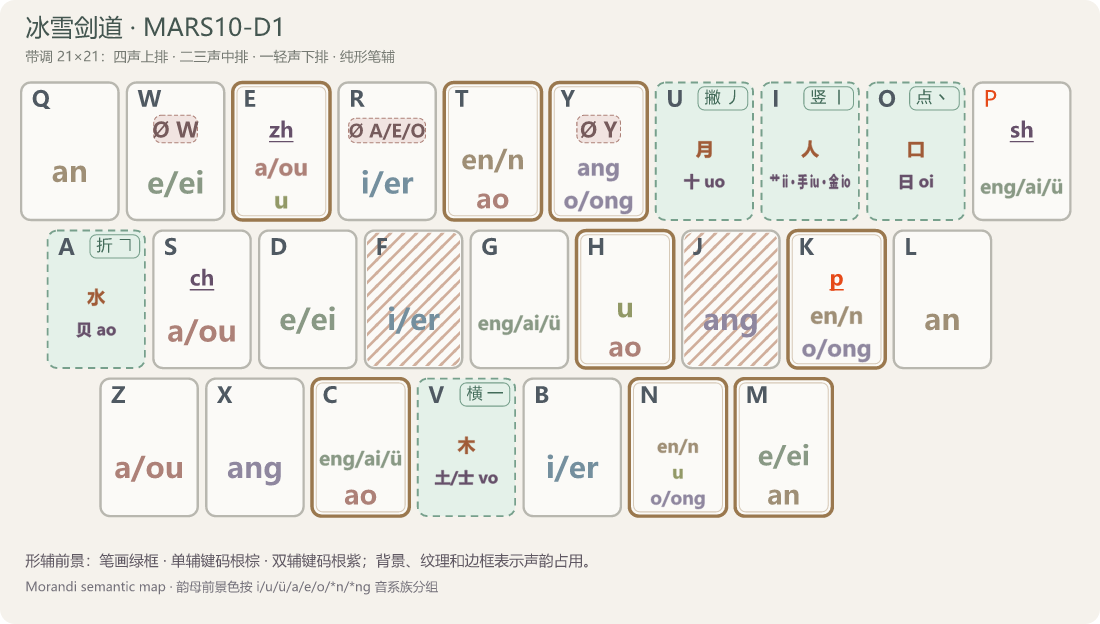
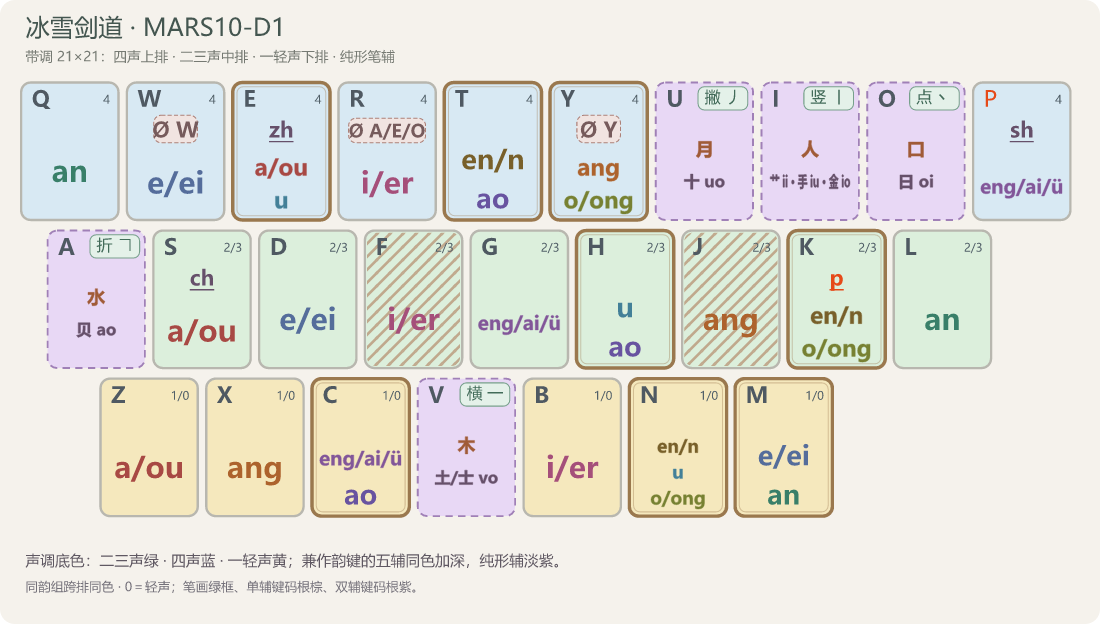
fix(keymaps): render embedded tone regions for Zhudao and Jiandao

diff --git a/scripts/generate-keymaps.ts b/scripts/generate-keymaps.ts
@@ -50,6 +50,8 @@ type Diagram = {
 	subtitle: string;
 	mapping?: Mapping;
 	finalLabels?: Record<string, string[]>;
+	finalColors?: Record<string, string>;
+	keyTones?: Record<string, string>;
 	auxiliary?: Record<string, KeyNote>;
 };
 
@@ -65,6 +67,44 @@ const keyWidth = 92;
 const keyHeight = 130;
 const keyStep = 100;
 const rowY = [78, 218, 358];
+
+// 与 benchmark 的带调主码键位图一致；五辅兼作韵键时保持色相并加深。
+const embeddedToneFills: Record<string, string> = {
+	4: "#d8e9f3",
+	23: "#dcefdc",
+	"01": "#f5e8bd",
+};
+const embeddedRhymeColors = [
+	"#a84944",
+	"#78602a",
+	"#556d9b",
+	"#825699",
+	"#397f69",
+	"#ad632d",
+	"#438098",
+	"#a54f7a",
+	"#778132",
+	"#6853a0",
+];
+
+function embeddedToneFill(tones: string, sharedShape: boolean) {
+	const region = Object.keys(embeddedToneFills).find((group) =>
+		[...tones].every((tone) => group.includes(tone)),
+	);
+	if (!region) throw new Error(`未知的带调键位色区：${tones}`);
+	const fill = embeddedToneFills[region];
+	return sharedShape
+		? `#${fill
+				.slice(1)
+				.match(/../gu)!
+				.map((channel) =>
+					Math.round(Number.parseInt(channel, 16) * 0.88)
+						.toString(16)
+						.padStart(2, "0"),
+				)
+				.join("")}`
+		: fill;
+}
 
 const semanticPatterns = `<defs><pattern id="nf4-both" width="12" height="12" patternUnits="userSpaceOnUse"><rect width="12" height="12" fill="#fbfaf7"/></pattern><pattern id="nf4-ionly" width="9" height="9" patternUnits="userSpaceOnUse"><rect width="9" height="9" fill="#e3eef4"/><path d="M2 0V9M7 0V9" stroke="#7399ad" stroke-opacity=".18"/></pattern><pattern id="nf4-ronly" width="10" height="10" patternUnits="userSpaceOnUse"><rect width="10" height="10" fill="#f6ebd6"/><circle cx="3" cy="3" r="1.15" fill="#b39253" fill-opacity=".3"/></pattern><pattern id="nf4-none" width="10" height="10" patternUnits="userSpaceOnUse"><rect width="10" height="10" fill="#eeece8"/><path d="M0 10L10 0" stroke="#aaa6a4" stroke-opacity=".14"/></pattern><pattern id="nf4-multi" width="9" height="9" patternUnits="userSpaceOnUse"><rect width="9" height="9" fill="#f8efe2"/><path d="M-2 2L2-2M0 9L9 0M7 11L11 7" stroke="#9a784e" stroke-width="1.6" stroke-opacity=".27"/></pattern><pattern id="nf4-anchor" width="12" height="12" patternUnits="userSpaceOnUse"><path d="M-3 3L3-3M0 12L12 0M9 15L15 9" stroke="#a05b37" stroke-width="2.5" stroke-opacity=".48"/></pattern></defs>`;
 
@@ -151,6 +191,7 @@ const tonedMarsSource = JSON.parse(
 ) as {
 	shapeKeysByMeaning: string;
 	toneKeysByTone: string;
+	toneRegions: Record<string, "upper" | "home" | "lower">;
 	firstKeys: Record<string, string>;
 	rhymeGroups: Array<{
 		label: string;
@@ -169,11 +210,20 @@ const tonedMars: Mapping = {
 	finalMap: {},
 };
 const tonedMarsFinalLabels: Record<string, string[]> = {};
+const tonedMarsFinalColors: Record<string, string> = {};
+const tonedMarsKeyTones: Record<string, string> = {};
 for (const rhyme of tonedMarsSource.rhymeGroups) {
-	for (const key of Object.values(rhyme.keys)) {
+	tonedMarsFinalColors[rhyme.label] =
+		embeddedRhymeColors[tonedMarsSource.rhymeGroups.indexOf(rhyme)];
+	for (const [region, key] of Object.entries(rhyme.keys)) {
 		const labels = tonedMarsFinalLabels[key] ?? [];
 		if (!labels.includes(rhyme.label)) labels.push(rhyme.label);
 		tonedMarsFinalLabels[key] = labels;
+		tonedMarsKeyTones[key] = Object.entries(tonedMarsSource.toneRegions)
+			.filter(([, toneRegion]) => toneRegion === region)
+			.map(([tone]) => (tone === "5" ? "0" : tone))
+			.sort()
+			.join("");
 	}
 }
 
@@ -192,10 +242,23 @@ const zhudaoSource = JSON.parse(
 	shapeKeysByMeaning: string;
 	toneKeysByTone: string;
 	rhymeGroups: Array<{ roots: string[]; keys: string[] }>;
+	referenceTonedCodes: Record<string, string>;
 };
 const zhudao: Mapping = { ...zhudaoSource, finalMap: {} };
 const zhudaoFinalLabels: Record<string, string[]> = {};
+const zhudaoFinalColors: Record<string, string> = {};
+const zhudaoKeyTones: Record<string, string> = {};
+for (const [syllable, code] of Object.entries(
+	zhudaoSource.referenceTonedCodes,
+)) {
+	const key = code[1].toUpperCase();
+	const tone = syllable.endsWith("5") ? "0" : syllable.slice(-1);
+	zhudaoKeyTones[key] = [...new Set((zhudaoKeyTones[key] ?? "") + tone)]
+		.sort()
+		.join("");
+}
 for (const rhyme of zhudaoSource.rhymeGroups) {
+	const color = embeddedRhymeColors[zhudaoSource.rhymeGroups.indexOf(rhyme)];
 	for (const key of rhyme.keys) {
 		const labels = zhudaoFinalLabels[key] ?? [];
 		labels.push(
@@ -212,6 +275,7 @@ for (const rhyme of zhudaoSource.rhymeGroups) {
 				.join("/"),
 		);
 		zhudaoFinalLabels[key] = labels;
+		zhudaoFinalColors[labels[labels.length - 1]] = color;
 	}
 }
 
@@ -380,6 +444,8 @@ const diagrams: Diagram[] = [
 			"带调 21×26：二三声上排 · 四声中排 · 一轻声下排 · 键道形辅 12/12/24",
 		mapping: zhudao,
 		finalLabels: zhudaoFinalLabels,
+		finalColors: zhudaoFinalColors,
+		keyTones: zhudaoKeyTones,
 		auxiliary: shapeNotes(zhudao.shapeKeysByMeaning),
 	},
 	{
@@ -408,6 +474,8 @@ const diagrams: Diagram[] = [
 		subtitle: "带调 21×21：四声上排 · 二三声中排 · 一轻声下排 · 纯形笔辅",
 		mapping: tonedMars,
 		finalLabels: tonedMarsFinalLabels,
+		finalColors: tonedMarsFinalColors,
+		keyTones: tonedMarsKeyTones,
 		auxiliary: shapeNotes(tonedMars.shapeKeysByMeaning),
 	},
 	{
@@ -701,8 +769,9 @@ function render(diagram: Diagram) {
 	const hasToneAuxiliary = Object.values(diagram.auxiliary ?? {}).some(
 		isToneKeyNote,
 	);
-	const semanticLegend =
-		diagram.filename === "snow_sipin"
+	const semanticLegend = diagram.keyTones
+		? "声调底色：二三声绿 · 四声蓝 · 一轻声黄；兼作韵键的五辅同色加深，纯形辅淡紫。"
+		: diagram.filename === "snow_sipin"
 			? "四拼前景：韵腹蓝 · 韵尾紫 · 声调棕 · 笔画绿框；背景、纹理和边框表示声韵占用。"
 			: hasShapeAuxiliary
 				? "形辅前景：笔画绿框 · 单辅键码根棕 · 双辅键码根紫；背景、纹理和边框表示声韵占用。"
@@ -735,6 +804,7 @@ function render(diagram: Diagram) {
 			const initial = initials.get(key) ?? [];
 			const final = finals.get(key) ?? [];
 			const auxiliary = diagram.auxiliary?.[key];
+			const tones = diagram.keyTones?.[key];
 			const hasInitial = initialRoles.length > 0;
 			const hasRhyme =
 				final.length > 0 ||
@@ -762,14 +832,18 @@ function render(diagram: Diagram) {
 						? "auxiliary-only"
 						: "unused";
 			const multi = final.length > 1;
-			const stroke = multi
-				? "#9a784e"
-				: {
-						both: "#b8b7af",
-						ionly: "#7399ad",
-						ronly: "#b39253",
-						none: auxiliary ? "#77a08c" : "#aaa6a4",
-					}[occupancy];
+			const shapeOnly =
+				diagram.keyTones && auxiliary && !hasInitial && !hasRhyme;
+			const stroke = shapeOnly
+				? "#a080b7"
+				: multi
+					? "#9a784e"
+					: {
+							both: "#b8b7af",
+							ionly: "#7399ad",
+							ronly: "#b39253",
+							none: auxiliary ? "#77a08c" : "#aaa6a4",
+						}[occupancy];
 			const dash = {
 				both: "",
 				ionly: "8 4",
@@ -777,18 +851,21 @@ function render(diagram: Diagram) {
 				none: "7 5",
 			}[occupancy];
 			const strokeWidth = multi ? 3.2 : occupancy === "both" ? 2.2 : 1.8;
-			const fill =
-				occupancy === "both"
-					? "#fbfaf7"
-					: occupancy === "none" && auxiliary
-						? "#e4f1e9"
-						: `url(#nf4-${occupancy})`;
+			const fill = tones
+				? embeddedToneFill(tones, !!auxiliary)
+				: shapeOnly
+					? "#e8d8f5"
+					: occupancy === "both"
+						? "#fbfaf7"
+						: occupancy === "none" && auxiliary
+							? "#e4f1e9"
+							: `url(#nf4-${occupancy})`;
 			const clip = `${diagram.filename}-clip-${row}-${column}`;
 			const titleInitials = initialRoles.join(" / ") || "—";
 			const titleFinals = final.join(" / ") || "—";
 			const items = [
-				`<g data-key="${key}" data-role="${role}"${multi ? ' data-multi="true"' : ""}>`,
-				`<title>${key}｜声码 ${escapeXml(titleInitials)}｜韵码 ${escapeXml(titleFinals)}${auxiliary ? `｜辅键 ${escapeXml(auxiliaryLabels(auxiliary).join(" / "))}` : ""}</title>`,
+				`<g data-key="${key}" data-role="${role}"${multi ? ' data-multi="true"' : ""}${tones ? ` data-tone-region="${tones}"` : ""}>`,
+				`<title>${key}｜声码 ${escapeXml(titleInitials)}｜韵码 ${escapeXml(titleFinals)}${tones ? `｜声调 ${tones === "01" ? "1/0" : [...tones].join("/")}` : ""}${auxiliary ? `｜辅键 ${escapeXml(auxiliaryLabels(auxiliary).join(" / "))}` : ""}</title>`,
 				`<clipPath id="${clip}"><rect x="${x + 3}" y="${y + 3}" width="${keyWidth - 6}" height="${keyHeight - 6}" rx="7"/></clipPath>`,
 				`<rect x="${x}" y="${y}" width="${keyWidth}" height="${keyHeight}" rx="9" fill="${fill}" stroke="${stroke}" stroke-width="${strokeWidth}"${dash ? ` stroke-dasharray="${dash}"` : ""}/>`,
 				...(multi
@@ -847,6 +924,11 @@ function render(diagram: Diagram) {
 					items.push(...renderSipinAuxiliary(auxiliary, x, y));
 				}
 			}
+			if (tones) {
+				items.push(
+					`<text x="${x + 84}" y="${y + (auxiliary ? 37 : 20)}" text-anchor="end" font-family="Microsoft YaHei UI, Noto Sans CJK SC, sans-serif" font-size="11" fill="#516068" data-tones="${tones}">${tones === "01" ? "1/0" : [...tones].join("/")}</text>`,
+				);
+			}
 
 			if (final.length > 0) {
 				const layers =
@@ -903,7 +985,7 @@ function render(diagram: Diagram) {
 					items.push(
 						text(x + keyWidth / 2, y + first + index * step, label, {
 							size,
-							fill: semanticColor(value),
+							fill: diagram.finalColors?.[value] ?? semanticColor(value),
 							anchor: "middle",
 							weight,
 							final: value,
@@ -925,7 +1007,10 @@ function render(diagram: Diagram) {
 			groups.push(items.join(""));
 		}
 	}
-	return `<svg xmlns="http://www.w3.org/2000/svg" class="keysvg nf4-keysvg" viewBox="0 0 ${width} ${height}" role="img" aria-labelledby="title desc">${semanticPatterns}<title id="title">${escapeXml(diagram.title)}键位映射图</title><desc id="desc">${escapeXml(diagram.subtitle)}</desc><rect width="${width}" height="${height}" rx="14" fill="#f5f2ec"/>${text(24, 34, diagram.title, { size: 23, fill: "#445650", weight: 760 })}${text(24, 58, diagram.subtitle, { size: 13, fill: "#767a73" })}${groups.join("")}${text(24, 535, semanticLegend, { size: 14, fill: "#5f5862" })}${text(24, 559, "Morandi semantic map · 韵母前景色按 i/u/ü/a/e/o/*n/*ng 音系族分组", { size: 12, fill: "#74717a" })}</svg>\n`;
+	const foregroundLegend = diagram.keyTones
+		? "同韵组跨排同色 · 0＝轻声；笔画绿框、单辅键码根棕、双辅键码根紫。"
+		: "Morandi semantic map · 韵母前景色按 i/u/ü/a/e/o/*n/*ng 音系族分组";
+	return `<svg xmlns="http://www.w3.org/2000/svg" class="keysvg nf4-keysvg" viewBox="0 0 ${width} ${height}" role="img" aria-labelledby="title desc">${semanticPatterns}<title id="title">${escapeXml(diagram.title)}键位映射图</title><desc id="desc">${escapeXml(diagram.subtitle)}</desc><rect width="${width}" height="${height}" rx="14" fill="#f5f2ec"/>${text(24, 34, diagram.title, { size: 23, fill: "#445650", weight: 760 })}${text(24, 58, diagram.subtitle, { size: 13, fill: "#767a73" })}${groups.join("")}${text(24, 535, semanticLegend, { size: 14, fill: "#5f5862" })}${text(24, 559, foregroundLegend, { size: 12, fill: "#74717a" })}</svg>\n`;
 }
 
 function styleInitialLinks(svg: string, mapping?: Mapping) {

diff --git a/scripts/fixed-corpus/test/keymaps.test.ts b/scripts/fixed-corpus/test/keymaps.test.ts
@@ -796,6 +796,76 @@ test("semantic key roles drive fills, borders, and auxiliary treatment", () => {
 	assert.match(shenyun, />Ø Y\/YU<\/text>/u);
 });
 
+test("冰雪竹道按实际带调音节显示声调区，并加深兼作韵键的五辅底色", () => {
+	const svg = read("lua/snow/keymaps/snow_zhudao.svg");
+	const mapping = JSON.parse(read("config/snow-zhudao-mapping.json")) as {
+		referenceTonedCodes: Record<string, string>;
+		shapeKeysByMeaning: string;
+	};
+	const tonesByKey = new Map<string, Set<string>>();
+	for (const [syllable, code] of Object.entries(mapping.referenceTonedCodes)) {
+		const key = code[1].toUpperCase();
+		const tones = tonesByKey.get(key) ?? new Set<string>();
+		tones.add(syllable.endsWith("5") ? "0" : syllable.slice(-1));
+		tonesByKey.set(key, tones);
+	}
+	for (const [keys, tones, light, dark] of [
+		["QWERTYUIOP", "23", "#dcefdc", "#c2d2c2"],
+		["ASDFGHJKL", "4", "#d8e9f3", "#becdd6"],
+		["ZXCVBNM", "01", "#f5e8bd", "#d8cca6"],
+	]) {
+		for (const key of keys) {
+			const group = keyGroup(svg, key);
+			const fill = mapping.shapeKeysByMeaning.includes(key) ? dark : light;
+			const base = group.match(/<rect\b[^>]*width="92"[^>]*>/u)?.[0];
+			assert.ok(base?.includes(`fill="${fill}"`), `竹道 ${key} 的声调底色`);
+			const actual = [...(tonesByKey.get(key) ?? [])].sort().join("");
+			assert.ok(
+				[...actual].every((tone) => tones.includes(tone)),
+				key,
+			);
+			assert.ok(
+				group.includes(`data-tones="${actual}"`),
+				`${key} 的实际合法调值`,
+			);
+		}
+	}
+	assert.match(keyGroup(svg, "B"), /data-tones="1">1<\/text>/u);
+	assert.doesNotMatch(svg, /undefined|NaN/u);
+	assert.match(svg, /兼作韵键的五辅同色加深/u);
+});
+
+test("带调主码图保持跨排韵组颜色，纯形辅与无调主码图保留各自语义", () => {
+	for (const name of ["snow_zhudao", "snow_jiandao_toned"]) {
+		const svg = read(`lua/snow/keymaps/${name}.svg`);
+		const colors = new Map<string, string>();
+		for (const key of letterKeys) {
+			for (const tag of textTags(keyGroup(svg, key))) {
+				const final = tag.match(/data-final="([^"]+)"/u)?.[1];
+				if (!final) continue;
+				const color = tag.match(/fill="([^"]+)"/u)?.[1];
+				assert.ok(color);
+				if (colors.has(final)) assert.equal(color, colors.get(final), final);
+				colors.set(final, color);
+			}
+		}
+		assert.equal(colors.size, 10);
+		assert.equal(new Set(colors.values()).size, 10);
+	}
+	const sword = read("lua/snow/keymaps/snow_jiandao_toned.svg");
+	for (const key of "AVUIO") {
+		assert.match(keyGroup(sword, key), /width="92"[^>]*fill="#e8d8f5"/u);
+		assert.doesNotMatch(keyGroup(sword, key), /data-tone-region=/u);
+	}
+	for (const [, , image] of schemes) {
+		if (["snow_zhudao.svg", "snow_jiandao_toned.svg"].includes(image)) continue;
+		assert.doesNotMatch(
+			read(`lua/snow/keymaps/${image}`),
+			/data-tone-region=/u,
+		);
+	}
+});
+
 test("ice KeyTao is generated as searchable native SVG", () => {
 	const jiandao = read("lua/snow/keymaps/snow_jiandao_classic.svg");
 	assert.match(jiandao, /<title id="title">冰雪键道键位映射图<\/title>/u);

diff --git a/docs/keymaps.md b/docs/keymaps.md
@@ -26,9 +26,11 @@ Rime 的候选接口只有文本与注释，没有跨前端的图片接口，因
 
 桌面端的 `tools/keymap-helper/` 是无控制台、单实例、常驻的 Rust GUI 程序。它轮询用户临时目录中的命令文件，直接把 `lua/snow/keymaps/*.svg` 栅格化到无边框、置顶且不抢焦点的窗口，并通过同目录心跳文件让重新部署后的 Lua 复用现有进程；Windows 窗口同时声明 `WS_EX_TOOLWINDOW`，避免任务栏、窗口边框工具和普通应用窗口管理误收录。方案初始化和切换只写跟随命令，helper 未运行时也不会自动启动或预加载 SVG；只有用户实际按键打开键位图时才按需启动。窗口首次创建后持续复用，后续显隐与方案切换路径不启动 PowerShell、CMD 或新的 helper 进程。发布工作流分别生成 Windows x64、macOS x64 和 Linux x64 可执行文件，再放入安装包的 `lua/snow/bin/`。
 
-移动端由 `scripts/skin/keymaps.ts` 向每套元书和同文皮肤注入统一选择页。元书使用各明暗资源目录中的 PNG 与图片描述文件；同文使用 `backgrounds/` 中的 PNG。九份 PNG 与桌面 SVG 均由 `scripts/generate-keymaps.ts` 从同一份原生矢量定义生成，包括冰雪键道、冰雪三拼和冰雪剑道，不再包装旧键位截图。图形定义沿用 README 两份“声韵辅-键映射”图的莫兰迪语义：声韵占用、纯辅键与多韵键使用独立背景、纹理和边框，韵母前景色按音系族区分；九图的五笔辅统一使用键帽右上角绿框，五调辅与单双码形辅在键中无框显示，冰雪四拼的韵腹、韵尾、声调和笔画使用四种前景色。声调中文首选霞鹜文楷并回退到平台楷体或衬线体，桌面包不捆绑字体；移动端 PNG 在发布构建时已经栅格化，不依赖手机字体。
+移动端由 `scripts/skin/keymaps.ts` 向每套元书和同文皮肤注入统一选择页。元书使用各明暗资源目录中的 PNG 与图片描述文件；同文使用 `backgrounds/` 中的 PNG。九份 PNG 与桌面 SVG 均由 `scripts/generate-keymaps.ts` 从同一份原生矢量定义生成，包括冰雪键道、冰雪三拼和冰雪剑道，不再包装旧键位截图。未在主码内嵌入声调的方案沿用 README 两份「声韵辅-键映射」图的莫兰迪语义：声韵占用、纯辅键与多韵键使用独立背景、纹理和边框，韵母前景色按音系族区分。九图的五笔辅统一使用键帽右上角绿框，五调辅与单双码形辅在键中无框显示，冰雪四拼的韵腹、韵尾、声调和笔画使用四种前景色。声调中文首选霞鹜文楷并回退到平台楷体或衬线体，桌面包不捆绑字体；移动端 PNG 在发布构建时已经栅格化，不依赖手机字体。
 
 声母位移 link 的纯算法核心来自 benchmark 仓库，并以 `scripts/vendor/keymap-link-colors.js` 固定快照进入本仓库；共享范围仅包括首选色与候选池、OKLab `0.18` 门槛、同图 link 颜色不重复、DSATUR 动态求解及最终验证。本仓库自己的 `scripts/lib/keymap-link-colors.ts` 把 `Mapping.initialMap` 适配成核心所需的语义状态，SVG/PNG 渲染、键帽粗细、W/Y 卡片样式和产物测试仍由本仓库负责；benchmark 的 HTML 注入器与浏览器全量审计器不属于共享核心。
+
+冰雪竹道与冰雪剑道的声调已进入主码，键位图改用与 benchmark 一致的声调分区底色：二三声绿、四声蓝、一轻声黄，每键标注实际可用声调，`0` 表示轻声；同一韵组跨排保持同一前景色。冰雪竹道兼作韵键的五辅键保持所属声调色，将 RGB 通道统一乘以 `0.88` 加深；冰雪剑道的纯形辅键使用淡紫。冰雪竹道的实际调值取自冻结的完整音节码表，因此 B 键只标「1」，但仍使用一轻声区的黄色。其他方案继续以声韵占用区分底色，独立调辅与主码内的声调分区分别表达。
 
 更新共享核心时，在 benchmark 仓库先完成测试与提交，再运行 `bun scripts/sync-keymap-link-colors.ts --source <shuangpin-layout-benchmark 路径>`；脚本复制上游文件并更新来源提交和 SHA-256。普通生成和 CI 只运行 `bun scripts/sync-keymap-link-colors.ts --check`，只校验仓库内快照，不依赖相邻工作树；本机需要核对两仓库时可额外传入 `--source`。
 
